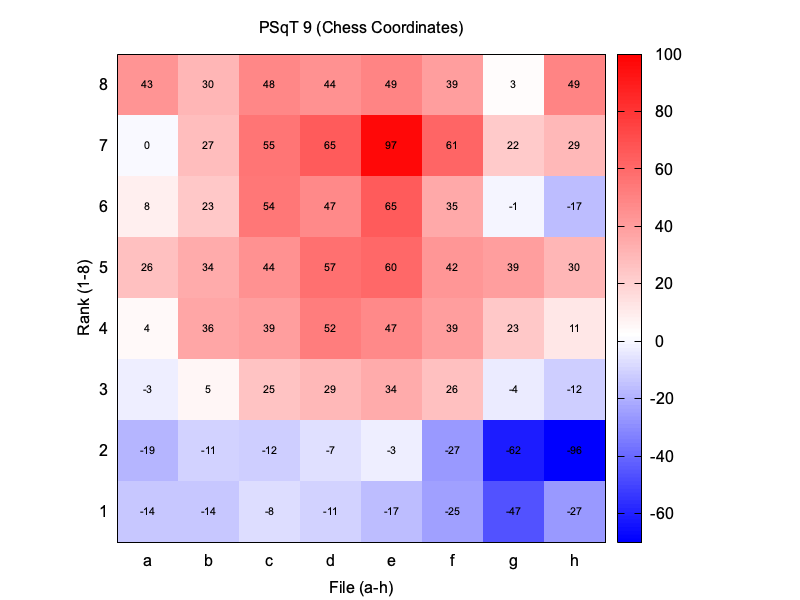
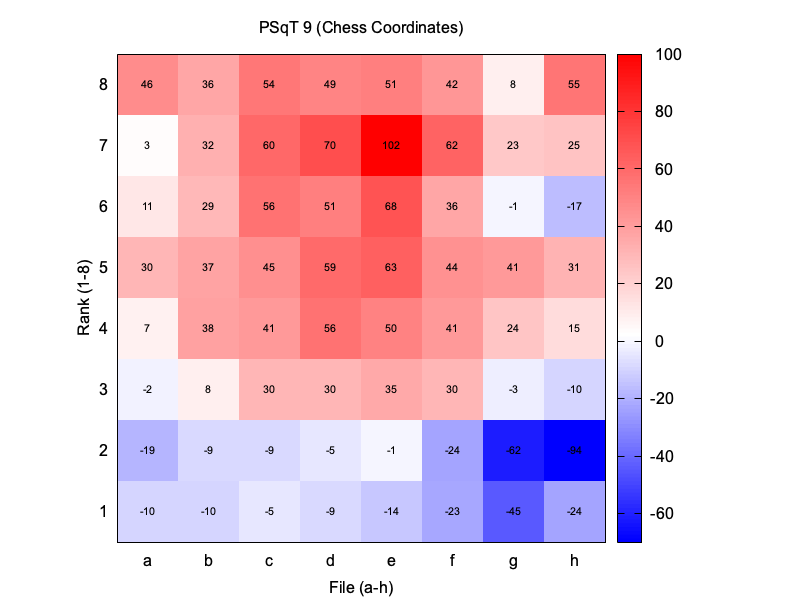
new values
bench 19858175

diff --git a/eval/coeff.go b/eval/coeff.go
@@ -6,7 +6,6 @@ import (
 )
 
 type CoeffSet[T ScoreType] struct {
-
 	// PSqT is tapered piece square tables.
 	PSqT [12][64]T
 
@@ -66,33 +65,33 @@ var Coefficients = CoeffSet[Score]{
 		},
 		{
 			0, 0, 0, 0, 0, 0, 0, 0,
-			123, 108, 108, 46, 50, 76, 121, 136,
-			27, 29, -14, -55, -59, -35, 4, 9,
+			123, 109, 108, 46, 50, 76, 121, 136,
+			28, 29, -14, -55, -59, -35, 4, 9,
 			12, 1, -14, -33, -35, -26, -12, -11,
-			-6, -7, -19, -27, -28, -23, -19, -22,
+			-6, -7, -19, -27, -28, -23, -18, -22,
 			-11, -11, -18, -16, -18, -19, -25, -25,
 			-10, -11, -14, -11, -7, -19, -28, -27,
 			0, 0, 0, 0, 0, 0, 0, 0,
 		},
 		{
-			-163, -116, -70, -38, -2, -80, -136, -123,
+			-163, -116, -70, -39, -2, -80, -136, -123,
 			-26, -5, 33, 49, 8, 70, -14, 8,
 			-9, 29, 36, 35, 86, 61, 44, 11,
 			2, 2, 15, 42, 24, 45, 13, 32,
 			-10, -2, 12, 15, 25, 24, 25, 5,
 			-33, -13, -3, 7, 25, 6, 11, -11,
 			-39, -25, -18, 4, 3, 3, -7, -9,
-			-72, -36, -34, -16, -15, -7, -29, -39,
+			-72, -36, -34, -16, -15, -7, -30, -39,
 		},
 		{
 			-46, -4, 6, -1, -5, -22, -3, -72,
-			3, 9, -2, -3, -8, -19, 4, -22,
+			3, 9, -1, -3, -8, -19, 4, -22,
 			4, 4, 21, 20, -3, -10, -15, -14,
 			15, 20, 31, 25, 22, 20, 15, 0,
 			24, 21, 39, 31, 36, 26, 14, 17,
 			7, 12, 18, 34, 28, 11, 4, 10,
 			9, 11, 13, 11, 11, 7, 5, 16,
-			10, -5, 12, 14, 16, 2, -4, 5,
+			10, -5, 12, 15, 16, 2, -4, 5,
 		},
 		{
 			-41, -61, -43, -92, -83, -94, -53, -66,
@@ -109,7 +108,7 @@ var Coefficients = CoeffSet[Score]{
 			3, 6, 9, 10, 1, 8, 12, 3,
 			17, 11, 12, 3, 9, 10, 6, 9,
 			12, 18, 14, 27, 17, 18, 14, 14,
-			7, 16, 24, 22, 20, 19, 12, -9,
+			7, 16, 24, 21, 20, 19, 12, -9,
 			6, 18, 19, 21, 24, 17, 8, -2,
 			12, 1, -2, 13, 8, 3, 7, -8,
 			-2, 11, 10, 9, 11, 15, -8, -14,
@@ -117,10 +116,10 @@ var Coefficients = CoeffSet[Score]{
 		{
 			26, 16, 24, 22, 33, 30, 22, 57,
 			6, 0, 26, 43, 27, 44, 19, 50,
-			-11, 17, 12, 14, 44, 40, 73, 45,
+			-11, 17, 12, 14, 43, 40, 73, 45,
 			-16, -7, -7, 5, 7, 7, 14, 15,
 			-34, -32, -19, -7, -8, -27, -1, -15,
-			-31, -27, -17, -15, -6, -10, 19, -3,
+			-31, -27, -17, -15, -6, -10, 19, -2,
 			-35, -23, -7, -3, 0, 1, 19, -23,
 			-20, -14, -5, 4, 8, 0, 7, -21,
 		},
@@ -146,16 +145,16 @@ var Coefficients = CoeffSet[Score]{
 		},
 		{
 			46, 36, 54, 49, 51, 42, 8, 55,
-			3, 33, 60, 70, 102, 62, 23, 25,
+			3, 32, 60, 70, 102, 62, 23, 25,
 			11, 29, 56, 51, 68, 36, -1, -17,
-			30, 38, 45, 59, 63, 44, 41, 31,
+			30, 37, 45, 59, 63, 44, 41, 31,
 			7, 38, 41, 56, 50, 41, 24, 15,
 			-2, 8, 30, 30, 35, 30, -3, -10,
-			-19, -9, -9, -5, -1, -25, -62, -94,
+			-19, -9, -9, -5, -1, -24, -62, -94,
 			-10, -10, -5, -9, -14, -23, -45, -24,
 		},
 		{
-			94, 140, 100, 45, -18, -16, -61, 131,
+			94, 140, 100, 45, -18, -16, -60, 131,
 			-49, 38, 15, 120, 60, 23, 18, -56,
 			-28, 65, 29, 10, 46, 102, 26, -6,
 			-3, -12, -27, -36, -36, -34, -61, -109,
@@ -170,13 +169,13 @@ var Coefficients = CoeffSet[Score]{
 			-2, 21, 35, 48, 52, 44, 48, 11,
 			-11, 24, 44, 53, 56, 53, 45, 19,
 			-15, 15, 35, 52, 51, 39, 30, 13,
-			-20, 5, 24, 34, 32, 25, 8, -7,
+			-20, 5, 24, 34, 31, 25, 8, -7,
 			-40, -9, 5, 13, 17, 7, -14, -38,
 			-72, -58, -35, -7, -27, -14, -50, -83,
 		},
 	},
 	PieceValues: [2][7]Score{
-		{0, 79, 392, 405, 518, 1060, 0},
+		{0, 79, 392, 404, 518, 1059, 0},
 		{0, 127, 328, 347, 650, 1288, 0},
 	},
 	TempoBonus: [2]Score{25, 23},
@@ -185,8 +184,8 @@ var Coefficients = CoeffSet[Score]{
 		{-49, 12, 8, -81},
 	},
 	SafeChecks: [2][4]Score{
-		{10, 9, 9, 5},
-		{19, 17, -9, 8},
+		{9, 9, 9, 5},
+		{19, 17, -10, 8},
 	},
 	KingShelter: [2]Score{7, -6},
 	MobilityKnight: [2][9]Score{
@@ -199,11 +198,11 @@ var Coefficients = CoeffSet[Score]{
 	},
 	MobilityRook: [2][11]Score{
 		{-26, -19, -16, -12, -7, -1, 7, 14, 14, 17, 23},
-		{-6, 2, 11, 16, 24, 28, 29, 32, 40, 45, 39},
+		{-6, 2, 11, 17, 24, 28, 29, 32, 40, 45, 39},
 	},
 	KnightOutpost: [2][40]Score{
 		{
-			-29, 52, 30, 19, 56, 99, 119, -30,
+			-29, 52, 30, 20, 56, 99, 120, -30,
 			63, -8, -24, -55, 3, -39, -4, 0,
 			0, -4, 9, 33, 14, 48, 17, 12,
 			-1, 25, 37, 35, 48, 50, 68, 17,
@@ -222,7 +221,7 @@ var Coefficients = CoeffSet[Score]{
 	ProtectedPasser: [2]Score{22, 5},
 	PasserKingDist:  [2]Score{8, 8},
 	PasserRank: [2][6]Score{
-		{-13, -25, -20, 4, 5, 40},
+		{-13, -25, -20, 4, 5, 39},
 		{11, 14, 41, 68, 139, 95},
 	},
 	DoubledPawns:  [2]Score{-9, -16},
